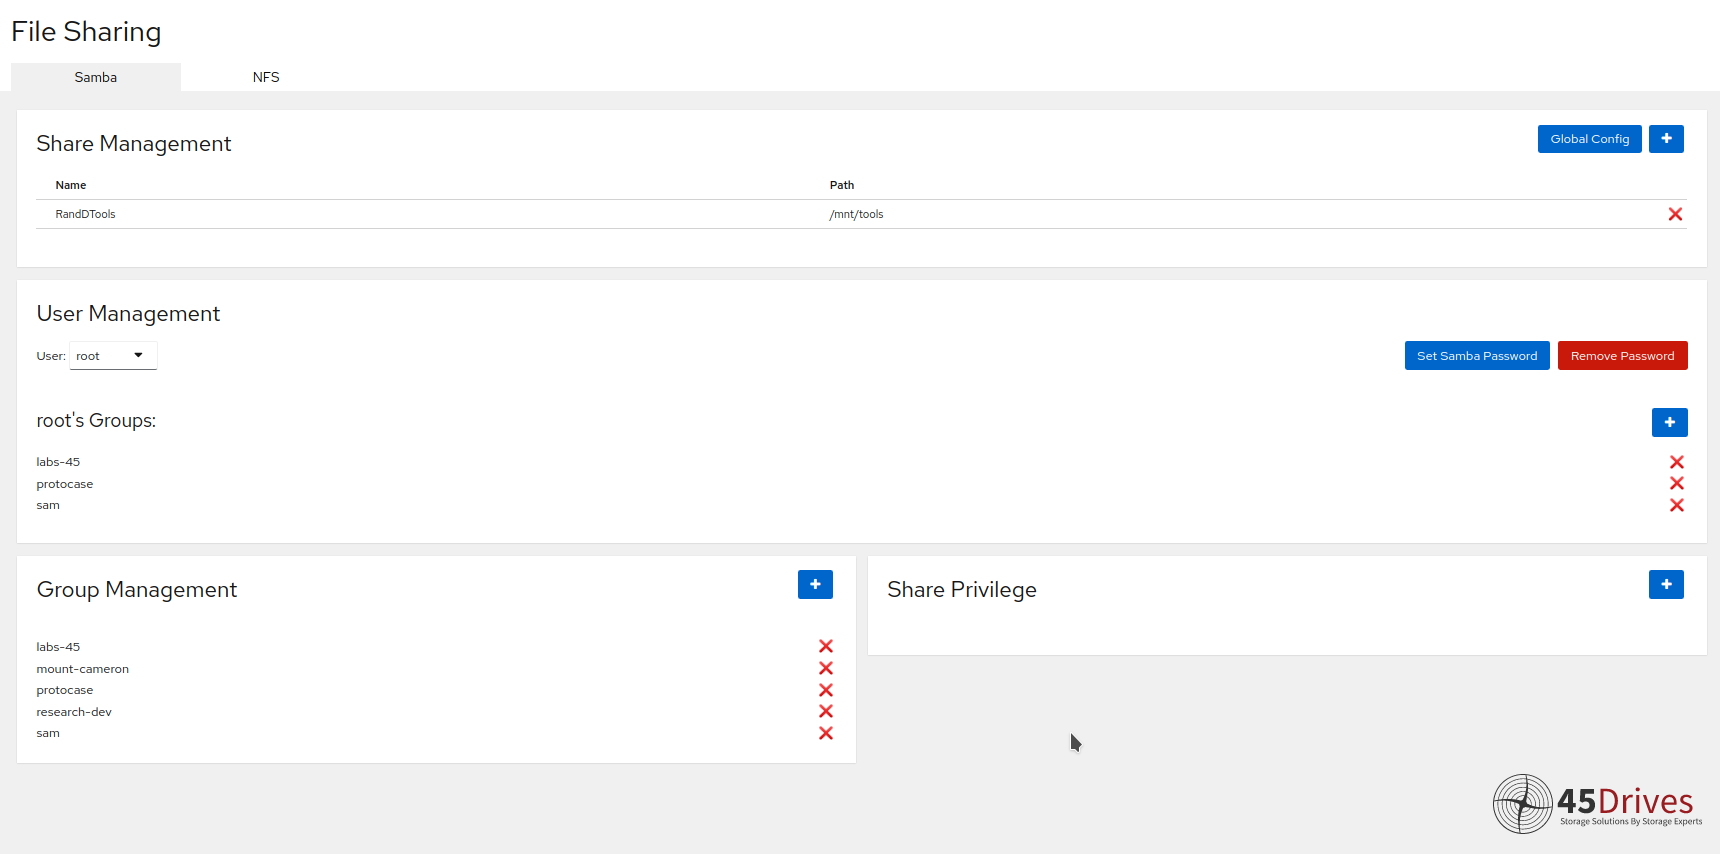
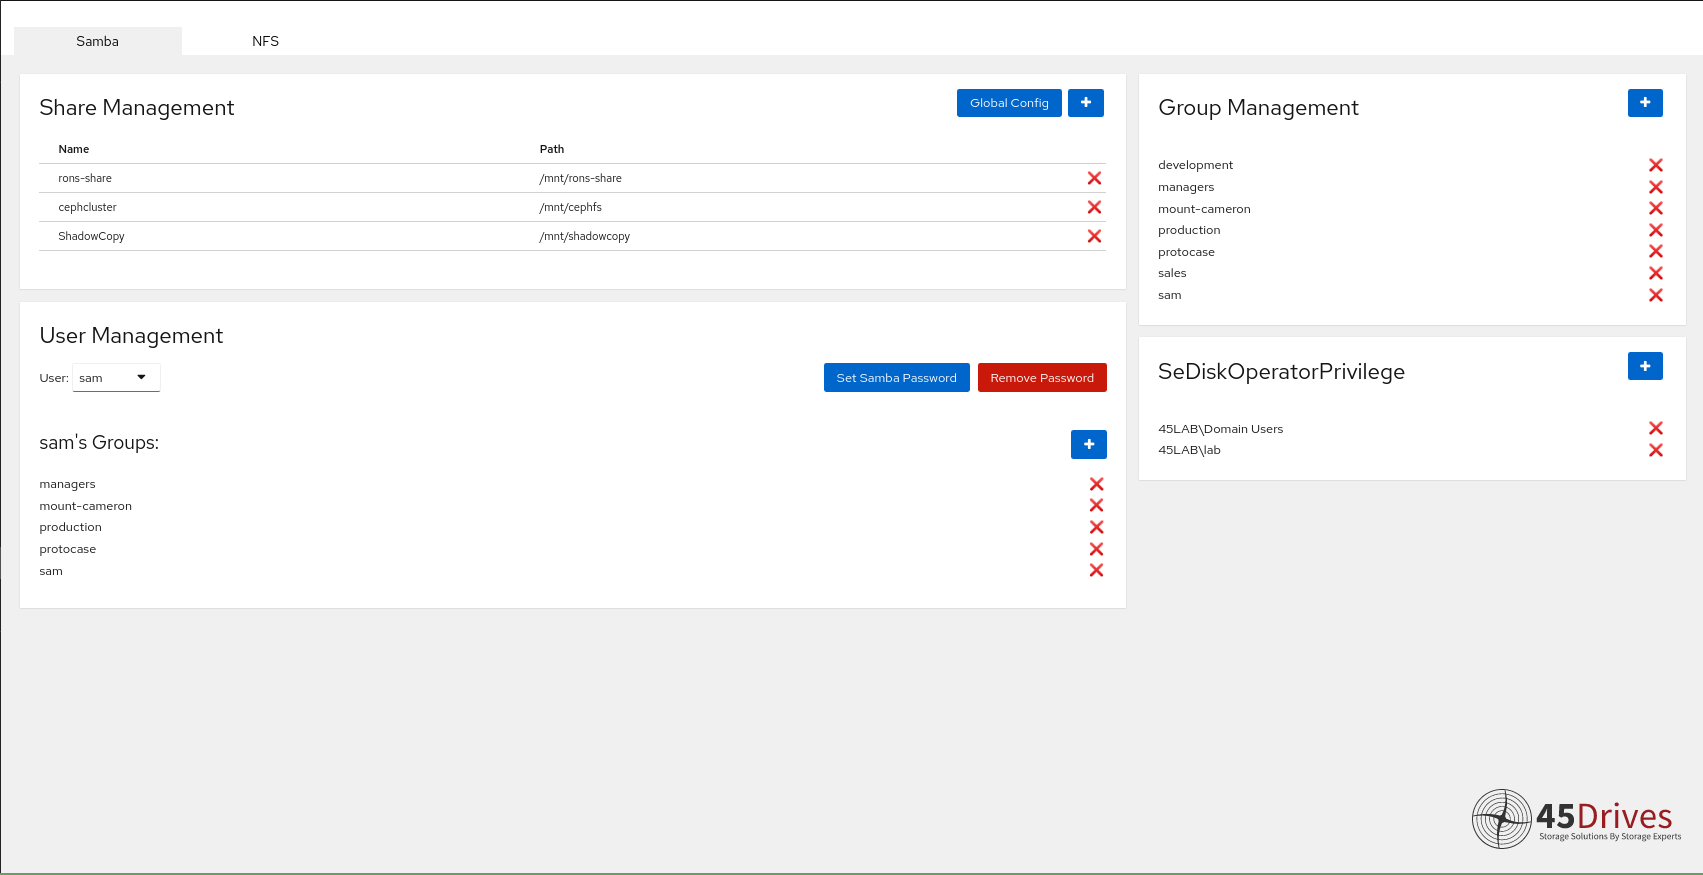
Edited readme and updated photos for Samba section

diff --git a/file-sharing/samba-manager/samba-manager.js b/file-sharing/samba-manager/samba-manager.js
@@ -1161,6 +1161,8 @@ function set_share_defaults() {
     document.getElementById("comment").value = "";
     document.getElementById("path").value = "";
     document.getElementById("windows-acls").checked = false;
+    document.getElementById("add-user-to-share").disabled = false;
+    document.getElementById("add-group-to-share").disabled = false;
     document.getElementById("share-path-feedback").innerText = "";
     share_valid_groups.clear();
     share_valid_users.clear();

diff --git a/README.md b/README.md
@@ -1,7 +1,26 @@
 # cockpit-file-sharing
 A Cockpit plugin to easily manage samba and NFS file sharing.
 
-## Features
+## Table of Contents
+* [General](#general)
+    * [Features](#features)
+    * [Samba Manager Screenshot](#samba-manager-screenshot)
+    * [NFS Manager Screenshot](#nfs-manager-screenshot)
+* [Installation](#installation)
+    * [From Source](#from-source)
+* [Samba Manager](#samba-manager)
+    * [Add Share](#add-share)
+        * [Advanced Settings](#advanced-settings)
+    * [Removing Shares](#removing-shares)
+    * [Editing Global Settings](#editing-global-settings)
+    * [Group Management](#group-management)
+    * [User Management](#user-management)
+    * [SeDiskOperatorPrivilege](#sediskopperatorprivilege)
+* [NFS Manager](#nfs-manager)
+
+## General
+
+### Features
 * Add and edit Samba shares.
 * Full control of Samba Share parameters
 * Auto populate parameters with commonly used settings
@@ -11,41 +30,70 @@ A Cockpit plugin to easily manage samba and NFS file sharing.
 * Set SeDiskOperator Privileges
 * Add and remove NFS sharing with full control of permissions and client IPs
 
-## Samba Manager
+### Samba Manager Screenshot
 ![Samba Manager Interface](img/samba/samba_interface.png)
 
-### Adding Shares
-![Adding a Samba Share](img/samba/samba_add_shares.png)
-
-## NFS Manager
+### NFS Manager Screenshot
 ![NFS Manager Interface](img/nfs/nfs_interface.png)
 
-### Adding a NFS
-![Adding a NFS](img/nfs/nfs_add.png)
-
-# Installation
-## From Source
+## Installation
+### From Source
 1. Ensure dependencies are installed: `cockpit`, `samba`, `nfs-kernel-server`.
-1. `$ git clone https://github.com/45Drives/cockpit-file-sharing.git`
-1. `$ cd cockpit-file-sharing`
-1. `# make install`
-## From 45Drives Repositories
-### Ubuntu
-1. Import GPG Key
-```sh
-wget -qO - http://images.45drives.com/repo/keys/aptpubkey.asc | sudo apt-key add -
+```bash
+$ git clone https://github.com/45Drives/cockpit-file-sharing.git
+$ cd cockpit-file-sharing
+$ make install
 ```
-2. Add 45drives.list
-```sh
-cd /etc/apt/sources.list.d
-sudo wget http://images.45drives.com/repo/debian/45drives.list
-```
-3. Uncomment second line in sources.list.d/45drives.list
-```sh
-vim /etc/apt/sources.list.d/45drives.list
-sudo apt update
-```
-4. Install Package
-```sh
-sudo apt install cockpit-file-sharing
-```
+
+## Samba Manager
+Samba manager is used to setup samba shares in an efficient manner.
+
+The main componet to this manager is the "Share Managemnt" card. This is used to edit and add samba shares. To add a share you simply click the "+" button.
+Samba
+### Add Share
+![Add Samba Share Menu](img/samba/samba_add.png)
+
+You have fully ability to customize your share the way you want it. Looking through the options in the menu, a lot are self explanatory, suh as share name and description, however the rest of the options can be complicated. Down below are the options and their descriptors.
+
+* Path - The path to the directory on the server you would like to share
+* Windows ACLs - Checking the box adds parameters that enables access control list on the share
+* Valid Users - Users who can access the share
+* Valid Groups - Groups that can access the share
+* Guest Ok - Sets that no password is required to connect to the samba share.
+* Browsable - Controls whether the share is seen in the list of available share in net view. 
+
+### Advanced Settings
+![Advanced Samba Settings](img/samba/samba_advanced.png)
+
+Under the advanced settings tab there is an input box. You can enter any extra Samba settings you want into this box. We have implemented templates that will auto populate the input box with popular settings many users use. Down below is a description of this auto populate settings.
+
+* Shadow Copy - Utilizes microsoft's shadow copy service which creates backup copies or snapshots of files within the samba share.
+* MacOS Share - Adds correct settings to allow shares to be seen on MacOS
+* Audit Logs - Adds ability to record events and changes on the samba share.
+
+For any more info on settings that can be inserted into this area, please checkout the samba config documentation, https://www.samba.org/samba/docs/current/man-html/smb.conf.5.html. 
+
+### Removing Shares
+![Removing Samba Shares](img/samba/samba_remove.gif)
+Removing shares is as simple as clicking the "X" beside the share you would like to delete, then confirm that you want to remove the share.
+
+### Editing Global Settings
+![Global Samba Settings](img/samba/samba_global.png)
+In the global samba settings menu you can change the description of the server as well as the amount of logs that are viewable. Much like the advanced samba settings, there is a input section to add any parameter you would like to set for all your shares on your server.
+
+### Group Management
+![Group Management](img/samba/samba_group.gif)
+Adding a group is as simple as pressing the "+" button, name the group, then confirm. Removing the group is just as easy, click the "X" next to the group you would like to delete, then confirm.
+
+### User Management
+![User Management](img/samba/samba_user.gif)
+Manging Samba Users in file sharing is as easy as can be. First you select the user to manage, you can then add as many groups as you want to the user and also delete groups from a user if needed!
+
+![Password](img/samba/password.png)
+Changing the password of a samba user is possible through the "Set Samba Password" button. You can remove the password by clicking the "Remove Password" button, then confirm.
+
+### SeDiskOperatorPrivilege
+![Add Privilege](img/samba/samba_privilege.gif)
+You can add privileges by clicking on the "+" button. You will be greeted with the menu above, you can set the group of the privilege and you can add a username and password. Remove privileges by clicking the "X".
+
+## NFS Manager
